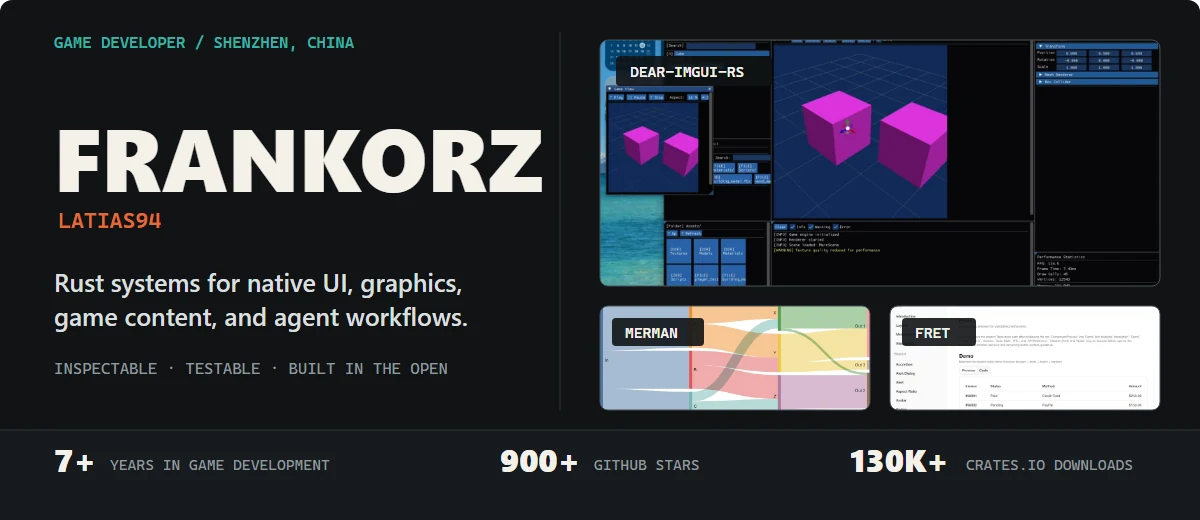
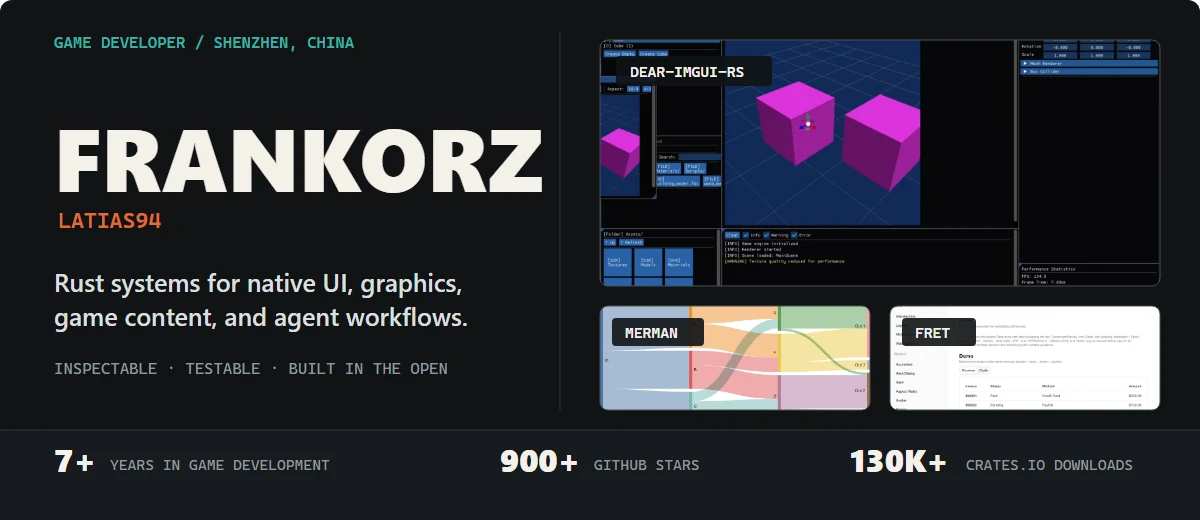
docs(profile): refine featured project showcase
Rename project sections for clearer navigation and rebuild the dear-imgui-rs artwork around its flagship docking editor, with smaller node-editor and ImPlot3D examples.

Changed region(s): [[0.4933, 0.0615, 0.8017, 0.5538], [0.8325, 0.0615, 0.9867, 0.5538]]

diff --git a/README.md b/README.md
@@ -25,13 +25,13 @@ I prefer tools that expose their state, keep boundaries explicit, and remain use
 
 [Playground](https://frankorz.com/merman/) · [Repository](https://github.com/Latias94/merman) · [Crates.io](https://crates.io/crates/merman) · [Documentation](https://docs.rs/merman)
 
-## Selected systems
+## Featured projects
 
 ### [dear-imgui-rs](https://github.com/Latias94/dear-imgui-rs)
 
 <p align="center">
   <a href="https://github.com/Latias94/dear-imgui-rs">
-    <img src="./assets/readme/artifacts/dear-imgui-rs.webp" width="100%" alt="Dear ImGui docking and editor tooling running through dear-imgui-rs">
+    <img src="./assets/readme/dear-imgui-showcase.webp" width="100%" alt="A Dear ImGui game-engine docking editor with smaller node-editor and ImPlot3D examples, running through dear-imgui-rs">
   </a>
 </p>
 
@@ -55,7 +55,7 @@ A local Codex CLI helper and proxy for provider routing, usage visibility, fallb
 
 **[Fret](https://github.com/Latias94/fret)** is an experimental, GPU-first Rust application UI framework for desktop applications, editor-grade interfaces, and WebGPU/wasm demos. It is the long-term exploration where rendering, layout, interaction, accessibility, and application structure meet.
 
-## More systems
+## More projects
 
 ### Application infrastructure
 

diff --git a/assets/readme/source/README.md b/assets/readme/source/README.md
@@ -4,7 +4,9 @@ The rendered assets in the parent directory use real outputs from the projects f
 
 ## Source material
 
-- `dear-imgui-rs.webp`: `dear-imgui-rs/screenshots/game-engine-docking.png`
+- `dear-imgui-docking.webp`: cropped from `dear-imgui-rs/screenshots/game-engine-docking.png`
+- `dear-imgui-node-editor.webp`: `dear-imgui-rs/screenshots/node-editor-showcase.png`
+- `dear-imgui-implot3d.webp`: `dear-imgui-rs/screenshots/implot3d-basic.png`
 - `merman-*.webp`: `merman/docs/assets/showcase/`
 - `fret-*.webp`: `fret/screenshots/`
 
